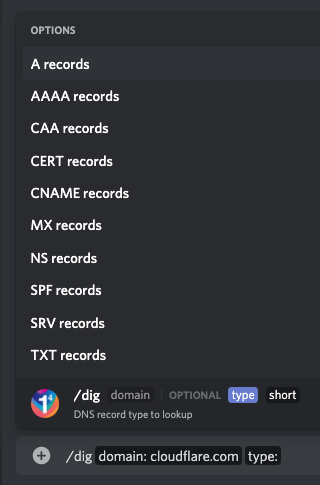
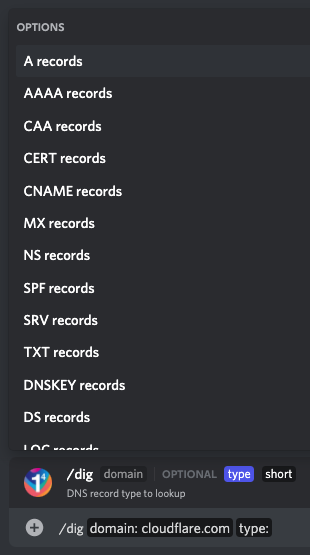
[1.1.1.1] Update the DNS over Discord docs (#1728)
* Update the DNS over Discord docs

Updates the supported types for dig & multi-dig

Adds information (and GIFs) for the new refresh button on dig & multi-dig

* Use single list format for record types

Changed region(s): [[0.0581, 0.0309, 0.4065, 0.7732], [0.0581, 0.7732, 0.9581, 0.9897]]

diff --git a/products/1.1.1.1/src/content/fun-stuff/dns-over-discord.md b/products/1.1.1.1/src/content/fun-stuff/dns-over-discord.md
@@ -9,18 +9,24 @@ Ever wanted to make DNS requests from the comfort of your Discord server? Well n
 
 To start using the DNS over Discord bot, invite it to your Discord server using this link: [https://cfl.re/3nM6VfQ](https://cfl.re/3nM6VfQ)
 
+
 ## dig command
 
 Once the bot is in your server, type `/dig` to begin using the bot's main command — performing DNS lookups.
 This will provide a native interface within Discord that allows you to specify the domain to lookup, an optional DNS record type and an optional flag for a short result.
 
-Due to limitations in Discord, the `/dig` command can only offer 10 different DNS record types, and will default to 'A' records if none is specified.
+If only a domain is given for the command, the bot will default to looking for 'A' DNS records, and will return the full format result, not the short form.
 
 ![dig command](../static/dns-over-discord/dig-command.png)
 
-![dig command types](../static/dns-over-discord/dig-command-types.png)
+![dig domain: cloudflare.com](../static/dns-over-discord/dig-command-example-1.png)
+
+_`/dig domain: cloudflare.com`_
+
 
 ### Supported record types
+
+Discord has a limit of 25 options in slash commands, so DNS over Discord offers the 25 most common DNS record types to choose from:
 
 *   A
 *   AAAA
@@ -32,69 +38,147 @@ Due to limitations in Discord, the `/dig` command can only offer 10 different DN
 *   SPF
 *   SRV
 *   TXT
-
-For all DNS record types, use the `/multi-dig` command.
-
-### Examples
-
-![dig domain: cloudflare.com](../static/dns-over-discord/dig-command-example-1.png)
-
-`/dig domain: cloudflare.com`
-
-![dig domain: cloudflare.com type: AAAA short: True](../static/dns-over-discord/dig-command-example-2.png)
-
-`/dig domain: cloudflare.com type: AAAA short: True`
-
-## multi-dig command
-
-Want to lookup multiple DNS record types at once, or record types not available in `/dig`?
-The `/multi-dig` command allows you to specify any supported DNS record type, and multiple types separated by a space.
-
-When providing DNS record types for the `/multi-dig` command, Discord will not prompt you with options.
-Please provide a space-separated list of valid DNS record types to lookup, any invalid options will be silently dropped.
-'A' records will be used as the default if no valid types are given.
-
-![multi-dig command](../static/dns-over-discord/multi-dig-command.png)
-
-![multi-dig command types](../static/dns-over-discord/multi-dig-command-types.png)
-
-### Supported record types
-
-*   A
-*   AAAA
-*   CAA
-*   CERT
-*   CNAME
 *   DNSKEY
 *   DS
 *   LOC
-*   MX
+*   URI
+*   HTTPS
 *   NAPTR
-*   NS
 *   PTR
 *   SMIMEA
-*   SPF
-*   SRV
+*   SOA
 *   SSHFP
+*   SVCB
 *   TLSA
-*   TXT
-*   URI
+*   HINFO
+*   CDS
+*   CDNSKEY
 
-Use '\*' (asterisk) in place of a record type to get DNS results for all supported types.
+*To query other DNS record types, or multiple record types at once, use the `/multi-dig` command.*
 
-### Examples
+![dig command types](../static/dns-over-discord/dig-command-types.png)
+
+
+### Short form response
+
+Much like the dig command itself, DNS over Discord has an optional flag in the dig command that allows the user to request that the response be in the short form.
+
+When this is requested, the name and TTL columns will be excluded, with just the data column returned without the table formatting, similar to the equivalent dig command response.
+
+![dig domain: cloudflare.com type: AAAA short: true](../static/dns-over-discord/dig-command-example-2.png)
+
+_`/dig domain: cloudflare.com type: AAAA short: true`_
+
+
+### Refreshing existing results
+
+As part of the response that the DNS over Discord bot returns for dig commands there is a button to refresh the results.
+
+Any user can press this button, triggering the bot to re-request the DNS query in the message and update the results in the message.
+
+The refresh button is available on all responses to the dig command, including those that resulted in an error, such as an unknown domain or no records found.
+
+![Refreshing dig domain: cloudflare.com](../static/dns-over-discord/dig-command-refresh.gif)
+
+_`/dig domain: cloudflare.com`_
+
+
+## multi-dig command
+
+Want to lookup multiple DNS record types at once?
+The `/multi-dig` command allows you to specify any supported DNS record type, and multiple types separated by a space.
+
+![multi-dig command](../static/dns-over-discord/multi-dig-command.png)
 
 ![multi-dig domain: cloudflare.com types: A AAAA](../static/dns-over-discord/multi-dig-command-example-1.png)
 
-`/multi-dig domain: cloudflare.com types: A AAAA`
+_`/multi-dig domain: cloudflare.com types: A AAAA`_
 
-![multi-dig domain: cloudflare.com types: DNSKEY short: True](../static/dns-over-discord/multi-dig-command-example-2.png)
 
-`/multi-dig domain: cloudflare.com types: DNSKEY short: True`
+### Supported record types
+
+When providing DNS record types for the `/multi-dig` command, Discord will not prompt you with options.
+
+Please provide a space-separated list of valid DNS record types to lookup, any invalid options will be silently dropped.
+'A' records will be used as the default if no valid types are given.
+
+The following DNS record types are supported and considered valid by the bot:
+
+*   A
+*   AAAA
+*   CAA
+*   CERT
+*   CNAME
+*   MX
+*   NS
+*   SPF
+*   SRV
+*   TXT
+*   DNSKEY
+*   DS
+*   LOC
+*   URI
+*   HTTPS
+*   NAPTR
+*   PTR
+*   SMIMEA
+*   SOA
+*   SSHFP
+*   SVCB
+*   TLSA
+*   HINFO
+*   CDS
+*   CDNSKEY
+*   AFSDB
+*   APL
+*   CSYNC
+*   DHCID
+*   DLV
+*   DNAME
+*   EUI48
+*   EUI64
+*   HIP
+*   IPSECKEY
+*   KEY
+*   KX
+*   NSEC
+*   NSEC3
+*   NSEC3PARAM
+*   OPENPGPKEY
+*   RP
+*   TA
+*   TKEY
+*   ZONEMD
+
+*Use '\*' (asterisk) in place of a record type to get DNS results for all supported types.*
+
+![multi-dig command types](../static/dns-over-discord/multi-dig-command-types.png)
+
+
+### Short form response
+
+Like the main dig command, the multi-dig command also supports the optional short flag after the types have been specified in the slash command.
+
+![multi-dig domain: cloudflare.com types: CDS CDNSKEY short: true](../static/dns-over-discord/multi-dig-command-example-2.png)
+
+_`/multi-dig domain: cloudflare.com types: CDS CDNSKEY short: true`_
+
+
+### Refreshing existing results
+
+The multi-dig command also provides a refresh button below each set of DNS results requested (or after each block of 10 DNS record types if more than 10 were requested).
+
+As with the dig command, any user can press the refresh button to refresh the displayed DNS results, including for DNS queries that had previously failed.
+
+![Refreshing multi-dig domain: cloudflare.com types: A AAAA](../static/dns-over-discord/multi-dig-command-refresh.gif)
+
+_`/multi-dig domain: cloudflare.com types: A AAAA`_
+
 
 ## whois command
 
-The `/whois` command allows you to perform an RDAP/WHOIS lookup right in Discord to find who is behind a given domain name, an IP address, or an ASN.
+Curious about who's behind a domain name, an IP address or even an ASN?
+The `/whois` command allows you to perform an RDAP/WHOIS lookup right in Discord for a given domain, IP or ASN.
 
 ![whois command](../static/dns-over-discord/whois-command.png)
 
@@ -102,19 +186,19 @@ The `/whois` command allows you to perform an RDAP/WHOIS lookup right in Discord
 
 ![whois query: cloudflare.com](../static/dns-over-discord/whois-command-example-1.png)
 
-`/whois query: cloudflare.com`
+_`/whois query: cloudflare.com`_
 
 ![whois query: 104.16.132.229](../static/dns-over-discord/whois-command-example-2.png)
 
-`/whois query: 104.16.132.229`
+_`/whois query: 104.16.132.229`_
 
 ![whois query: 2606:4700::6810:84e5](../static/dns-over-discord/whois-command-example-3.png)
 
-`/whois query: 2606:4700::6810:84e5`
+_`/whois query: 2606:4700::6810:84e5`_
 
 ![whois query: 13335](../static/dns-over-discord/whois-command-example-4.png)
 
-`/whois query: 13335`
+_`/whois query: 13335`_
 
 ## Other commands
 
@@ -126,7 +210,7 @@ The `/help` command provides in-Discord documentation about all the commands ava
 
 ![help command](../static/dns-over-discord/help-command.png)
 
-`/help`
+_`/help`_
 
 ### privacy command
 
@@ -135,7 +219,7 @@ This notice can also be viewed at [https://dns-over-discord.v4.wtf/privacy](http
 
 ![privacy command](../static/dns-over-discord/privacy-command.png)
 
-`/privacy`
+_`/privacy`_
 
 ### github command
 
@@ -144,7 +228,7 @@ The GitHub repository can be accessed at [https://github.com/MattIPv4/DNS-over-D
 
 ![github command](../static/dns-over-discord/github-command.png)
 
-`/github`
+_`/github`_
 
 ### invite command
 
@@ -153,7 +237,7 @@ The bot can be invited at any time with [https://cfl.re/3nM6VfQ](https://cfl.re/
 
 ![invite command](../static/dns-over-discord/invite-command.png)
 
-`/invite`
+_`/invite`_
 
 ---
 
